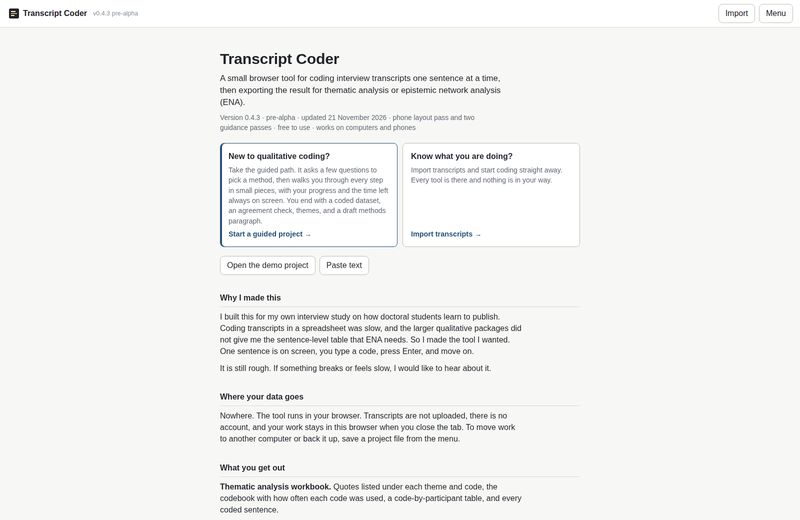
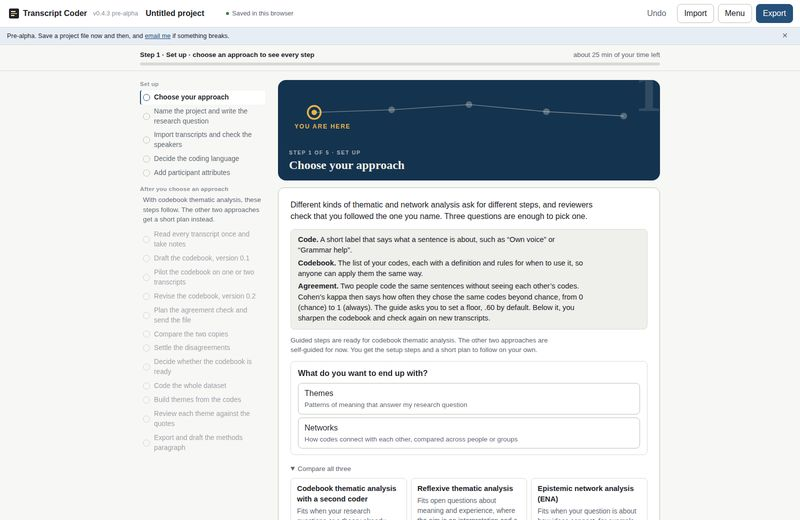
Tools: Coder thumb shows the guided-path constellation band; alt text schematic → screenshot

diff --git a/layouts/tools/list.html b/layouts/tools/list.html
@@ -32,7 +32,7 @@
       {{- with .image }}
       {{- with resources.Get (printf "media/tools/%s" .) }}
       <div class="plist-thumb">
-        <a href="{{ $tool.link }}" target="_blank" rel="noopener"><img src="{{ .RelPermalink }}" alt="{{ $tool.title }} interface schematic" width="200" height="130" loading="lazy" decoding="async"></a>
+        <a href="{{ $tool.link }}" target="_blank" rel="noopener"><img src="{{ .RelPermalink }}" alt="{{ $tool.title }} interface screenshot" width="200" height="130" loading="lazy" decoding="async"></a>
       </div>
       {{- end }}
       {{- end }}
